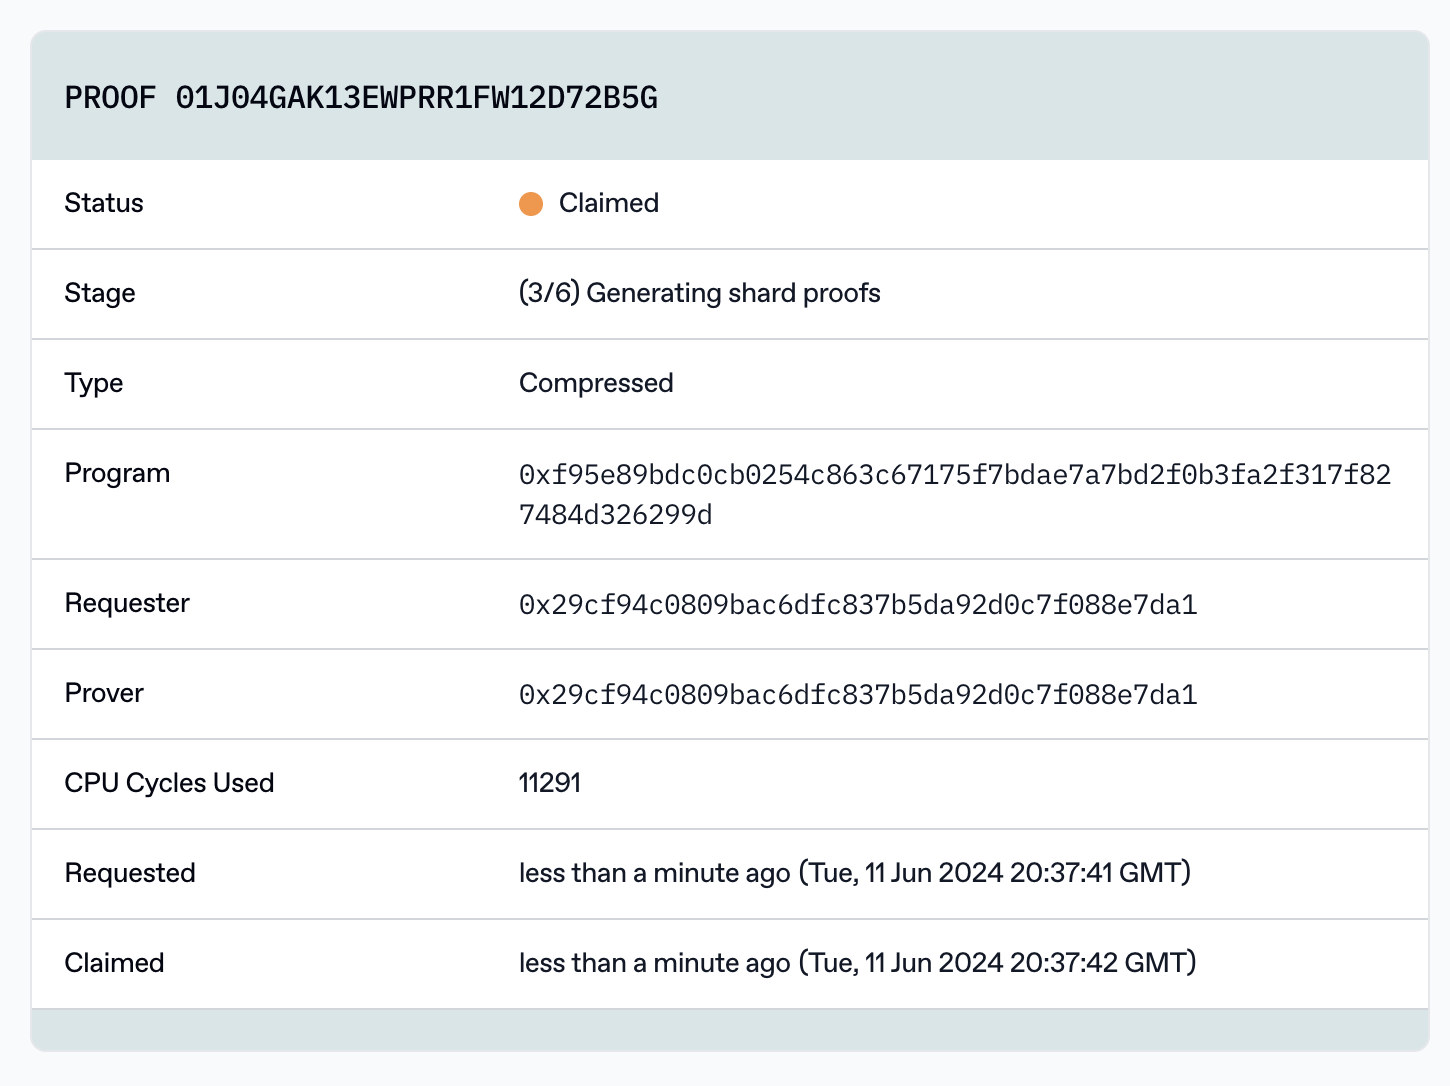
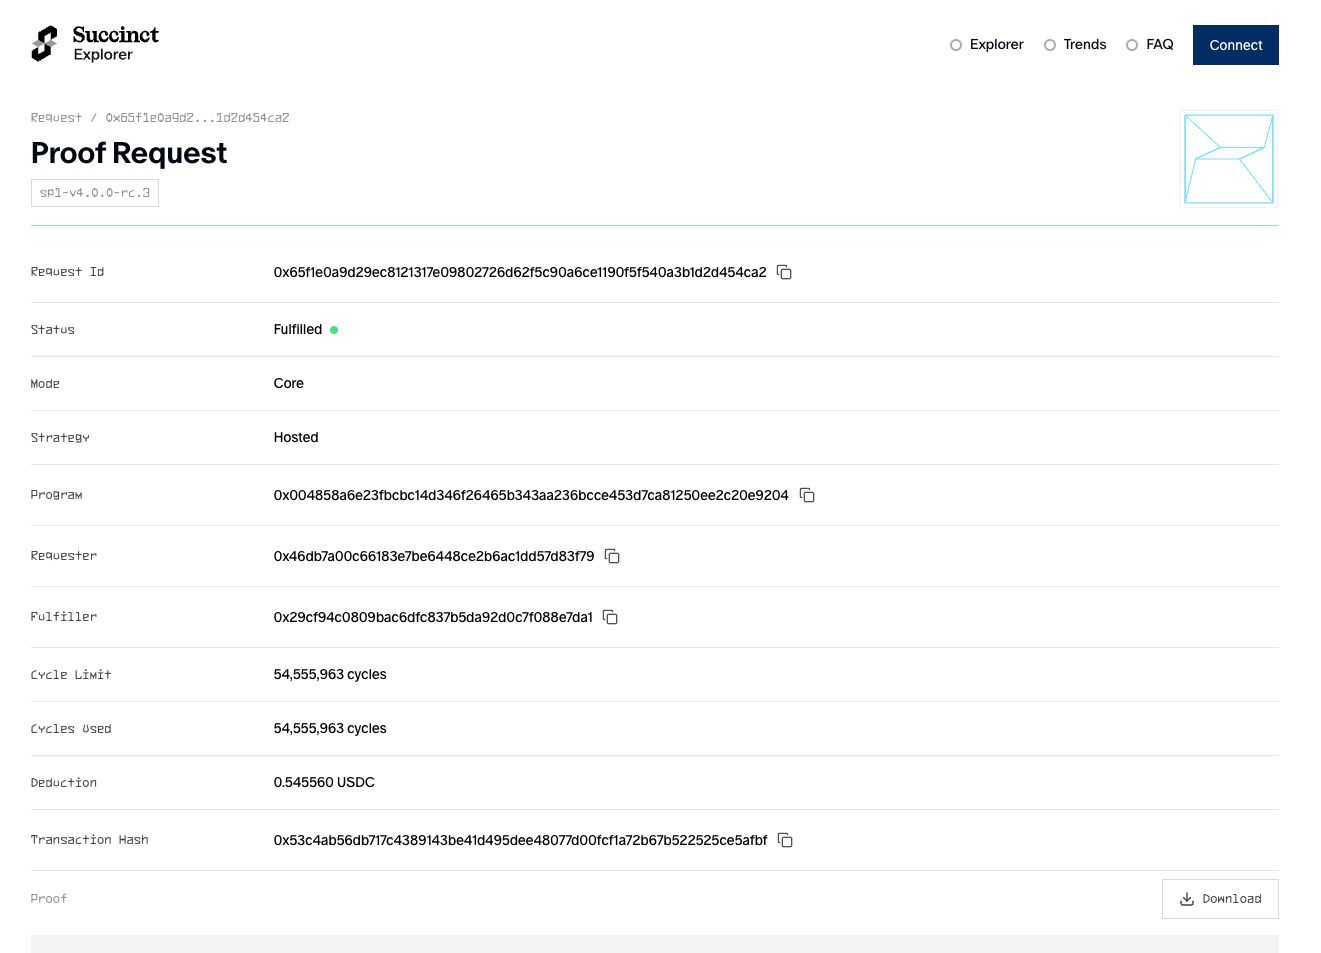
book: update network docs and rpc urls (#219)
* update docs

* env var comment

* fix

* update

* update

* fix

* fix

* fix

diff --git a/crates/sdk/src/network/prover.rs b/crates/sdk/src/network/prover.rs
@@ -18,7 +18,6 @@ use crate::{
 };
 use alloy_primitives::B256;
 use anyhow::Result;
-use serde::de::DeserializeOwned;
 use sp1_core_executor::{SP1Context, SP1ContextBuilder};
 use sp1_core_machine::io::SP1Stdin;
 use sp1_prover::{components::CpuProverComponents, SP1Prover, SP1_CIRCUIT_VERSION};
@@ -216,11 +215,11 @@ impl NetworkProver {
 
     /// Waits for a proof to be generated and returns the proof. If a timeout is supplied, the
     /// function will return an error if the proof is not generated within the timeout.
-    pub async fn wait_proof<P: DeserializeOwned>(
+    pub async fn wait_proof(
         &self,
         request_id: B256,
         timeout: Option<Duration>,
-    ) -> Result<P> {
+    ) -> Result<SP1ProofWithPublicValues> {
         let mut is_assigned = false;
         let start_time = Instant::now();
 

diff --git a/crates/sdk/src/network/mod.rs b/crates/sdk/src/network/mod.rs
@@ -21,6 +21,6 @@ pub use crate::network::proto::network::FulfillmentStrategy;
 pub use alloy_primitives::B256;
 pub use error::*;
 
-pub(crate) const DEFAULT_NETWORK_RPC_URL: &str = "https://rpc.production.succinct.tools/";
+pub(crate) const DEFAULT_NETWORK_RPC_URL: &str = "https://rpc.production.succinct.xyz/";
 pub(crate) const DEFAULT_TIMEOUT_SECS: u64 = 14400;
 pub(crate) const DEFAULT_CYCLE_LIMIT: u64 = 100_000_000;

diff --git a/book/docs/generating-proofs/prover-network/usage.md b/book/docs/generating-proofs/prover-network/usage.md
@@ -14,70 +14,63 @@ let mut proof = client.prove(&pk, &stdin).run().unwrap();
 ```
 
 ```sh
-SP1_PROVER=network SP1_PRIVATE_KEY=... RUST_LOG=info cargo run --release
+SP1_PROVER=network NETWORK_PRIVATE_KEY=... RUST_LOG=info cargo run --release
 ```
 
-- `SP1_PROVER` should be set to `network` when using the prover network.
+- `SP1_PROVER` should be set to `network` rather than the default `cpu` when using the prover network. This variable allows you to switch between the CPU and network provers.
 
-- `SP1_PRIVATE_KEY` should be set to your [private key](./key-setup.md). You will need
+- `NETWORK_PRIVATE_KEY` should be set to your [private key](./key-setup.md). You will need
   to be using a [whitelisted](../prover-network) key to use the network.
 
 When you call any of the prove functions in ProverClient now, it will first simulate your program, then wait for it to be proven through the network and finally return the proof.
 
 ## View the status of your proof
 
-You can view your proof and other running proofs on the [explorer](https://explorer.succinct.xyz/). The page for your proof will show details such as the stage of your proof and the cycles used. It also shows the program hash which is the keccak256 of the program bytes.
+You can view your proof and other running proofs on the [explorer](https://network.succinct.xyz/). The page for your proof will show details such as the stage of your proof and the cycles used. It also shows the vk hash of the program.
 
-![Screenshot from explorer.succinct.xyz showing the details of a proof including status, stage, type, program, requester, prover, CPU cycles used, time requested, and time claimed.](./explorer.png)
+![Screenshot from network.succinct.xyz showing the details of a proof.](./explorer.png)
 
 ## Advanced Usage
 
-### Skip simulation
+If you are using the prover network in a production system, or otherwise want to use advanced features, you should use `sp1_sdk::NetworkProver` directly.
 
-To skip the simulation step and directly submit the program for proof generation, you can set the `SKIP_SIMULATION` environment variable to `true`. This will save some time if you are sure that your program is correct. If your program panics, the proof will fail and ProverClient will panic.
+Advanced features include:
+* Skipping local simulation
+* Requesting a proof, which returns a proof ID, and then waiting for the proof to be fulfilled
+* Async support
+* Requesting a proof using a custom fulfillment strategy, such as for reserved prover network capacity
 
-### Use NetworkProver directly
+```rust,no_run
+use sp1_sdk::{network::FulfillmentStrategy, Prover, ProverClient};
+use std::time::Duration;
 
-By using the `sp1_sdk::NetworkProver` struct directly, you can call async functions directly and have programmatic access to the proof ID and download proofs by ID.
+let prover = ProverClient::builder().network().build();
+let (pk, vk) = prover.setup(ELF);
 
-```rust
-impl NetworkProver {
-    /// Creates a new [NetworkProver] with the private key set in `SP1_PRIVATE_KEY`.
-    pub fn new() -> Self;
+// Request proof and get the proof ID immediately
+let request_id = prover.prove(&pk, &stdin).groth16().skip_simulation(true).request_async().await.unwrap();
+println!("Proof request ID: {}", request_id);
 
-    /// Creates a new [NetworkProver] with the given private key.
-    pub fn new_from_key(private_key: &str);
+// Wait for proof complete with a timeout
+let proof = prover.wait_proof(request_id, Some(Duration::from_secs(60 * 60))).await.unwrap();
 
-    /// Requests a proof from the prover network, returning the proof ID.
-    pub async fn request_proof(
-        &self,
-        elf: &[u8],
-        stdin: SP1Stdin,
-        mode: ProofMode,
-    ) -> Result<String>;
+// Request a proof with reserved prover network capacity and wait for it to be fulfilled
+let proof = prover
+    .prove(&pk, &stdin)
+    .groth16()
+    .skip_simulation(true)
+    .fulfillment_strategy(FulfillmentStrategy::Reserved)
+    .run_async()
+    .await
+    .unwrap();
 
-    /// Waits for a proof to be generated and returns the proof. If a timeout is supplied, the
-    /// function will return an error if the proof is not generated within the timeout.
-    pub async fn wait_proof(
-        &self,
-        proof_id: &str,
-        timeout: Option<Duration>,
-    ) -> Result<SP1ProofWithPublicValues>;
-
-    /// Get the status and the proof if available of a given proof request. The proof is returned
-    /// only if the status is Fulfilled.
-    pub async fn get_proof_status(
-        &self,
-        proof_id: &str,
-    ) -> Result<(GetProofStatusResponse, Option<SP1ProofWithPublicValues>)>;
-
-    /// Requests a proof from the prover network and waits for it to be generated.
-    pub async fn prove(
-        &self,
-        elf: &[u8],
-        stdin: SP1Stdin,
-        mode: ProofMode,
-        timeout: Option<Duration>,
-    ) -> Result<SP1ProofWithPublicValues>;
-}
+// Request a proof and then block immediately (up to a timeout) until the proof is fulfilled
+let proof = prover
+    .prove(&pk, &stdin)
+    .groth16()
+    .skip_simulation(true)
+    .fulfillment_strategy(FulfillmentStrategy::Reserved)
+    .timeout(Duration::from_secs(60 * 60))
+    .run()
+    .unwrap();
 ```

diff --git a/book/docs/generating-proofs/prover-network/key-setup.md b/book/docs/generating-proofs/prover-network/key-setup.md
@@ -25,10 +25,10 @@ cast wallet new
 
 which will give you an output similar to this:
 
-![Screenshot from running 'cast wallet new' to generate an SP1_PRIVATE_KEY.](../prover-network/key.png)
+![Screenshot from running 'cast wallet new' to generate a NETWORK_PRIVATE_KEY.](../prover-network/key.png)
 
 The "Address" what you should submit in the [form](https://forms.gle/rTUvhstS8PFfv9B3A), in the example above this is `0x552f0FC6D736ed965CE07a3D71aA639De15B627b`. The "Private key" should be kept safe and
-secure. When interacting with the network, you will set your `SP1_PRIVATE_KEY` environment variable
+secure. When interacting with the network, you will set your `NETWORK_PRIVATE_KEY` environment variable
 to this value.
 
 ### Retrieve an Existing Key
